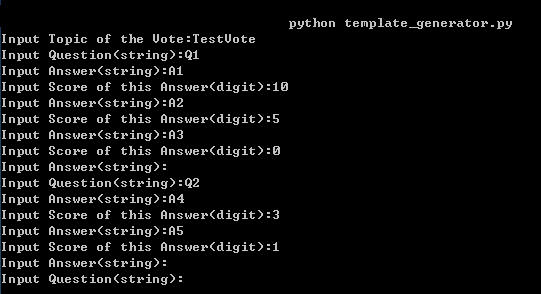
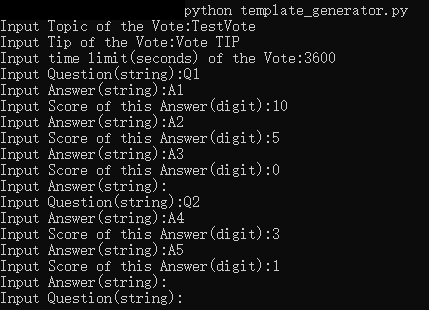
update readme

diff --git a/README.md b/README.md
@@ -14,37 +14,31 @@ Take file "sample_template.txt" as an example, we input as below:
 So content of the file "sample_template.txt" generated is:
 ```json
 {
-    "Topic": "TestVote",
-    "Questions": [
-        {
-            "Question": "Q1",
-            "Answers": [
-                {
-                    "Answer": "A1",
-                    "Score": 
-                    10
-                },
-                {
-                    "Answer": "A2",
-                    "Score": 5
-                },
-                {
-                    "Answer": "A3",
-                    "Score": 0
-                }]
-        },
-        {
-            "Question": "Q2",
-            "Answers": [
-                {
-                    "Answer": "A4",
-                    "Score": 3
-                },
-                {
-                    "Answer": "A5",
-                    "Score": 1
-                }]
-        }]
+	"Topic": "TestVote",
+	"Tip": "Vote TIP",
+	"TimeLimit": "3600",
+	"Questions": [{
+		"Question": "Q1",
+		"Answers": [{
+			"Answer": "A1",
+			"Score": 10
+		}, {
+			"Answer": "A2",
+			"Score": 5
+		}, {
+			"Answer": "A3",
+			"Score": 0
+		}]
+	}, {
+		"Question": "Q2",
+		"Answers": [{
+			"Answer": "A4",
+			"Score": 3
+		}, {
+			"Answer": "A5",
+			"Score": 1
+		}]
+	}]
 }
 ```
 2. Run server
@@ -74,8 +68,8 @@ Eg: http://localhost:5555/
 
 Visit URL below to vote:
 ```
-http://[Domain Name or IP Address]:[Port you set]/vote.html?guid=[GUID]
-Eg: http://localhost:5555/vote.html?guid=00c57f5a-a3e1-11ea-b270-b025aa18fa9c
+http://[Domain Name or IP Address]:[Port you set]/[GUID]
+Eg: http://localhost:5555/00c57f5a-a3e1-11ea-b270-b025aa18fa9c
 ```
 ![sample_vote](./sample_vote.png)
 
